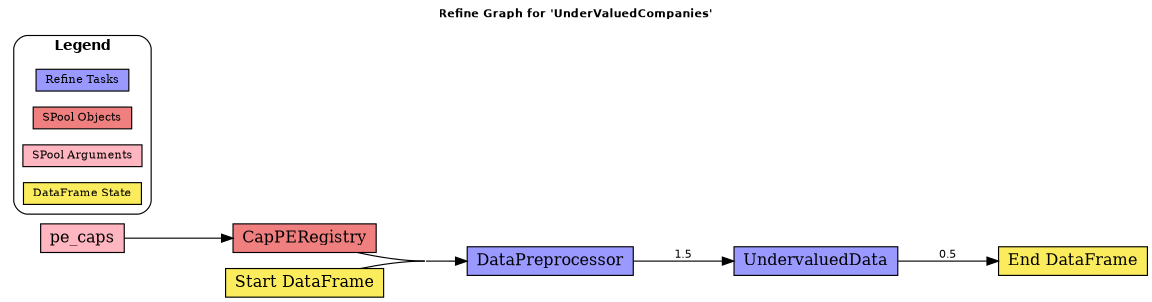
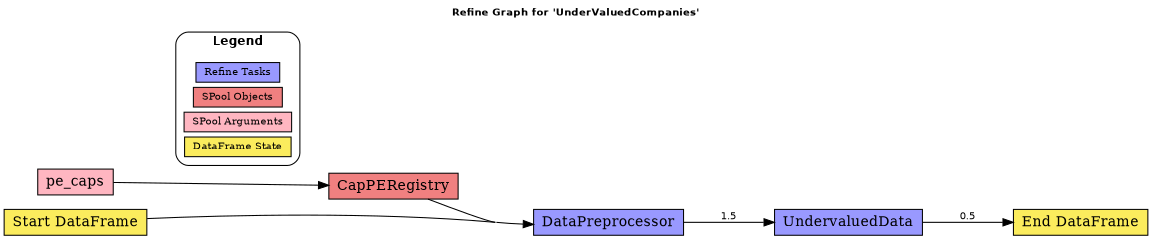
feature: introduce rank sourcing

diff --git a/weaveflow/core/nxgraph.py b/weaveflow/core/nxgraph.py
@@ -105,6 +105,26 @@ class _BaseGraph(ABC):
         """Extract delta time from collection if available."""
         dt = collection[node]["delta_time"] if node in collection else None
         return f"{dt:,.1f}" if dt else None
+    
+    def _rank_source_and_sink_nodes(self, g: graphviz.Digraph) -> None:
+        """
+        Identify and rank source and sink nodes. Can improve readability of the graph.
+        However, it can also make the graph look cluttered, so use with caution. 
+        """
+        # Identify and rank source and sink nodes
+        source_nodes = [n for n, d in self.graph.in_degree() if d == 0]
+        sink_nodes = [n for n, d in self.graph.out_degree() if d == 0]
+
+        with g.subgraph() as s:
+            s.attr(rank="source")
+            for node in source_nodes:
+                s.node(node)
+
+        with g.subgraph() as s:
+            s.attr(rank="sink")
+            for node in sink_nodes:
+                s.node(node)
+
 
 
 class WeaveGraph(_BaseGraph):
@@ -152,7 +172,8 @@ class WeaveGraph(_BaseGraph):
             self.graph.add_edges_from([(fn, v) for v in outputs])
 
     def build(
-        self, size: int = 12, timer: bool = False, mindist: float = 1.2, legend: bool = True
+        self, size: int = 12, timer: bool = False, mindist: float = 1.2, legend: bool = True,
+        sink_source: bool = False,
     ) -> graphviz.Digraph:
         """Builds and returns the Graphviz Digraph object for the weave tasks.
 
@@ -170,6 +191,8 @@ class WeaveGraph(_BaseGraph):
             legend (bool, optional): If True, includes a color-coded legend
                 explaining the different node types (e.g., required inputs, outputs).
                 Defaults to True.
+            sink_source (bool, optional): If True, ranks source and sink nodes.
+                Defaults to False.
 
         Returns:
             graphviz.Digraph: A Graphviz Digraph object representing the weave graph.
@@ -218,6 +241,10 @@ class WeaveGraph(_BaseGraph):
         )
 
         g = graphviz.Digraph(graph_attr=graph_attr)
+
+        # Rank source and sink nodes if specified
+        if sink_source:
+            self._rank_source_and_sink_nodes(g)
 
         for k, v in self.graph.nodes.items():
             g.node(k, shape="box", style="filled", fillcolor=clrs[v["type"]], height="0.35")
@@ -354,7 +381,8 @@ class RefineGraph(_BaseGraph):
             self.graph.add_edge(refine_tasks[-1], "End DataFrame")
 
     def build(
-        self, size: int = 12, timer: bool = False, mindist: float = 1.2, legend: bool = True
+        self, size: int = 12, timer: bool = False, mindist: float = 1.2, legend: bool = True,
+        sink_source: bool = False,
     ) -> graphviz.Digraph:
         """Builds and returns the Graphviz Digraph object for the refine tasks.
 
@@ -372,6 +400,8 @@ class RefineGraph(_BaseGraph):
             legend (bool, optional): If True, includes a color-coded legend
                 explaining the different node types (e.g., refine tasks, spool objects).
                 Defaults to True.
+            sink_source (bool, optional): If True, ranks source and sink nodes. 
+                Defaults to False.
 
         Returns:
             graphviz.Digraph: A Graphviz Digraph object representing the refine graph.
@@ -415,6 +445,10 @@ class RefineGraph(_BaseGraph):
         )
 
         g = graphviz.Digraph(graph_attr=graph_attr)
+
+        # Rank source and sink nodes if specified
+        if sink_source:
+            self._rank_source_and_sink_nodes(g)
 
         for k, v in self.graph.nodes.items():
             g.node(k, shape="box", style="filled", fillcolor=clrs[v["type"]], height="0.35")

diff --git a/quickstart.py b/quickstart.py
@@ -181,7 +181,7 @@ def calculate_cost_of_equity(rf_rate: float, erp: float, betas: float) -> float:
 
 
 @wf.weave("cost_of_debt")
-def cost_of_debt(rf_rate: float, addon: float = 1.5) -> float:
+def get_cost_of_debt(rf_rate: float, addon: float = 1.5) -> float:
     return rf_rate + addon
 
 
@@ -269,7 +269,7 @@ if __name__ == "__main__":
             get_industry_metrics,
             DataPreprocessor,
             calculate_cost_of_equity,
-            cost_of_debt,
+            get_cost_of_debt,
             calculate_wacc,
             discounted_cashflow_model,
             UndervaluedData,
@@ -279,12 +279,12 @@ if __name__ == "__main__":
     loomer.run()
 
     weave_graph = wf.WeaveGraph(loomer)
-    g = weave_graph.build(timer=True, size=20)
+    g = weave_graph.build(timer=True, size=20, sink_source=False)
     g.render("assets/output/graphs/weave_graph", format="png", cleanup=True)
 
     weave_matrix: pd.DataFrame = weave_graph.build_matrix()
     weave_matrix.to_csv("assets/output/matrix/weave_matrix.csv")
 
     refine_graph = wf.RefineGraph(loomer)
-    g = refine_graph.build(timer=True)
+    g = refine_graph.build(timer=True, sink_source=False)
     g.render("assets/output/graphs/refine_graph", format="png", cleanup=True)
